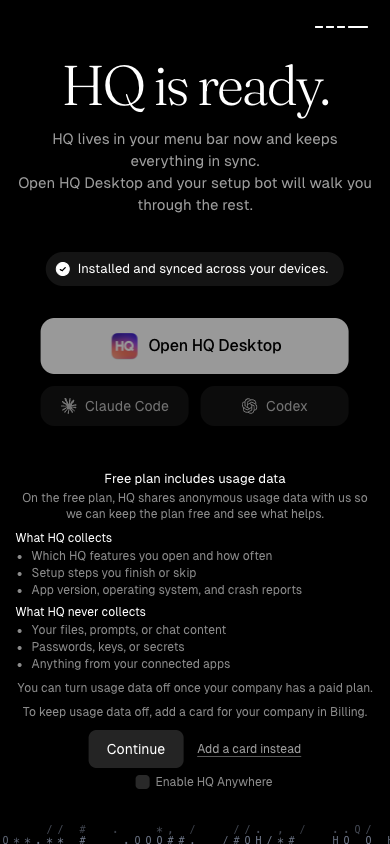
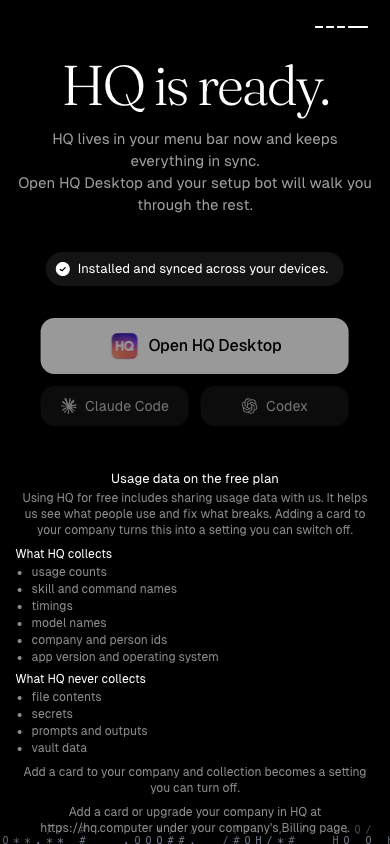
US-004: harness mock and story test use the locked disclosure text
The design harness and the story test now carry TELEMETRY_DISCLOSURE
version 2026-10-22 word for word, so the after screenshots show the
copy the shipped app renders. The story test also checks that the
no-card disclosure never says anonymous. The four after screenshots
and RECORD.md are retaken.

Changed region(s): [[0.0308, 0.5545, 0.9538, 0.9858]]

diff --git a/apps/sync/__tests__/stories/free-user-required-telemetry-US-004.test.ts b/apps/sync/__tests__/stories/free-user-required-telemetry-US-004.test.ts
@@ -45,14 +45,27 @@ import { HQ_CONSOLE_BASE } from '@hq/ui/hq-console';
 const READY_STEP = WIZARD_STEPS.find((s) => s.id === 'ready')!.index;
 const CONSENT_STEP = WIZARD_STEPS.find((s) => s.id === 'consent')!.index;
 
+// The locked server text (TELEMETRY_DISCLOSURE, version 2026-10-22), word for word.
 const DISCLOSURE = {
-  version: 'free-required-2026-10',
-  title: 'Usage data is part of the free plan',
-  summary: 'On the free plan, HQ shares anonymous usage data so we can keep the plan free.',
-  collected: ['Which skills and commands you run', 'Model names and token counts'],
-  neverCollected: ['Your prompts or replies', 'The contents of your files'],
-  offSwitch: 'You can turn this off any time by adding a card to your company.',
-  upgradePath: 'Add a card to your company to make sharing optional.',
+  version: '2026-10-22',
+  title: 'Usage data on the free plan',
+  summary: 'Using HQ for free includes sharing usage data with us. It helps us see what people use and fix what breaks. Adding a card to your company turns this into a setting you can switch off.',
+  collected: [
+    'usage counts',
+    'skill and command names',
+    'timings',
+    'model names',
+    'company and person ids',
+    'app version and operating system',
+  ],
+  neverCollected: [
+    'file contents',
+    'secrets',
+    'prompts and outputs',
+    'vault data',
+  ],
+  offSwitch: 'Add a card to your company and collection becomes a setting you can turn off.',
+  upgradePath: "Add a card or upgrade your company in HQ at https://hq.computer under your company's Billing page.",
 };
 
 type NoticeState = 'pending' | 'required' | 'card' | 'not-applicable' | 'fail';
@@ -209,6 +222,7 @@ describe('US-004 consent screen (consent-only run)', () => {
       await flushUntil(() => Boolean(byId('disclosure-continue')), 'the disclosure');
       const screen = byId<HTMLElement>('onboarding-consent')!;
       expectDisclosureCopy(screen);
+      expect(screen.textContent ?? '').not.toMatch(/anonymous/i);
       // The share/decline radios are hidden; only Continue and Add a card remain.
       const radios = [...screen.querySelectorAll<HTMLInputElement>('input[type="radio"]')];
       expect(radios.every((r) => !visible(r))).toBe(true);

diff --git a/apps/sync/dev-harness/mocks/core.ts b/apps/sync/dev-harness/mocks/core.ts
@@ -860,22 +860,28 @@ const previewLocalBots: Array<Record<string, unknown>> = botsTablePreviewEnabled
 // US-004: the free-plan usage data notice. `&notice=pending|required` shows
 // the disclosure state, `card` answers a company with a card on file, `fail`
 // fails the read (the wizard keeps today's choice). Default: not-applicable.
+// The copy is the locked server text (TELEMETRY_DISCLOSURE, version 2026-10-22),
+// word for word, so harness screenshots show what the shipped app renders.
 const HARNESS_DISCLOSURE = {
-  version: '2026-10-preview',
-  title: 'Free plan includes usage data',
-  summary: 'On the free plan, HQ shares anonymous usage data with us so we can keep the plan free and see what helps.',
+  version: '2026-10-22',
+  title: 'Usage data on the free plan',
+  summary: 'Using HQ for free includes sharing usage data with us. It helps us see what people use and fix what breaks. Adding a card to your company turns this into a setting you can switch off.',
   collected: [
-    'Which HQ features you open and how often',
-    'Setup steps you finish or skip',
-    'App version, operating system, and crash reports',
+    'usage counts',
+    'skill and command names',
+    'timings',
+    'model names',
+    'company and person ids',
+    'app version and operating system',
   ],
   neverCollected: [
-    'Your files, prompts, or chat content',
-    'Passwords, keys, or secrets',
-    'Anything from your connected apps',
+    'file contents',
+    'secrets',
+    'prompts and outputs',
+    'vault data',
   ],
-  offSwitch: 'You can turn usage data off once your company has a paid plan.',
-  upgradePath: 'To keep usage data off, add a card for your company in Billing.',
+  offSwitch: 'Add a card to your company and collection becomes a setting you can turn off.',
+  upgradePath: "Add a card or upgrade your company in HQ at https://hq.computer under your company's Billing page.",
 };
 
 function harnessTelemetryNotice(): Record<string, unknown> {
@@ -897,7 +903,7 @@ function harnessTelemetryNotice(): Record<string, unknown> {
     requiredFrom: null,
     ackAt: null,
     hasCard: mode === 'card',
-    disclosure: null,
+    disclosure: mode === 'card' ? HARNESS_DISCLOSURE : null,
   };
 }
 

diff --git a/docs/pr-screenshots/free-user-required-telemetry/RECORD.md b/docs/pr-screenshots/free-user-required-telemetry/RECORD.md
@@ -9,7 +9,7 @@ Story: free-user-required-telemetry US-004, the desktop usage-data disclosure fo
 - Driver: Playwright 1.62.1 with system Chrome (`channel: 'chrome'`), headless, `reducedMotion: 'reduce'`, viewports 1280x800 and 390x844.
 - The live server flag is off, so every state is mocked through the harness `notice` query parameter.
 - BEFORE images come from origin/main (af35beb1f). The BEFORE consent image needs this branch's `mode=consent` harness patch, because origin/main's harness cannot open the consent run directly.
-- AFTER results: the disclosure shows in every image, and the consent run has no checkbox. Both lists end above the fold. Consent 1280: lists end at 439px, actions at 613px of 800. Consent 390: 592px and 766px of 844. Ready 1280: 554px and 666px of 800. Ready 390: 672px and 768px of 844. No page errors were logged.
+- AFTER results: the disclosure shows in every image, and the consent run has no checkbox. The harness mock carries the locked server text (TELEMETRY_DISCLOSURE, version 2026-10-22) word for word, and none of the images contains the word "anonymous". Both lists end above the fold in every image. Consent 1280: collects list ends at 490px, never-collects at 450px, actions at 645px of 800. Consent 390: 522px and 628px, actions at 802px of 844. Ready 1280: 605px and 571px, actions at 717px of 800. Ready 390: 665px and 756px of 844; the upgrade line and the actions sit below the fold at 884px, so that screen needs a scroll to reach Continue. No page errors were logged.
 - The single checkbox left on the ready screen is "Enable HQ Anywhere", which is also on origin/main.
 
 ## Native build
